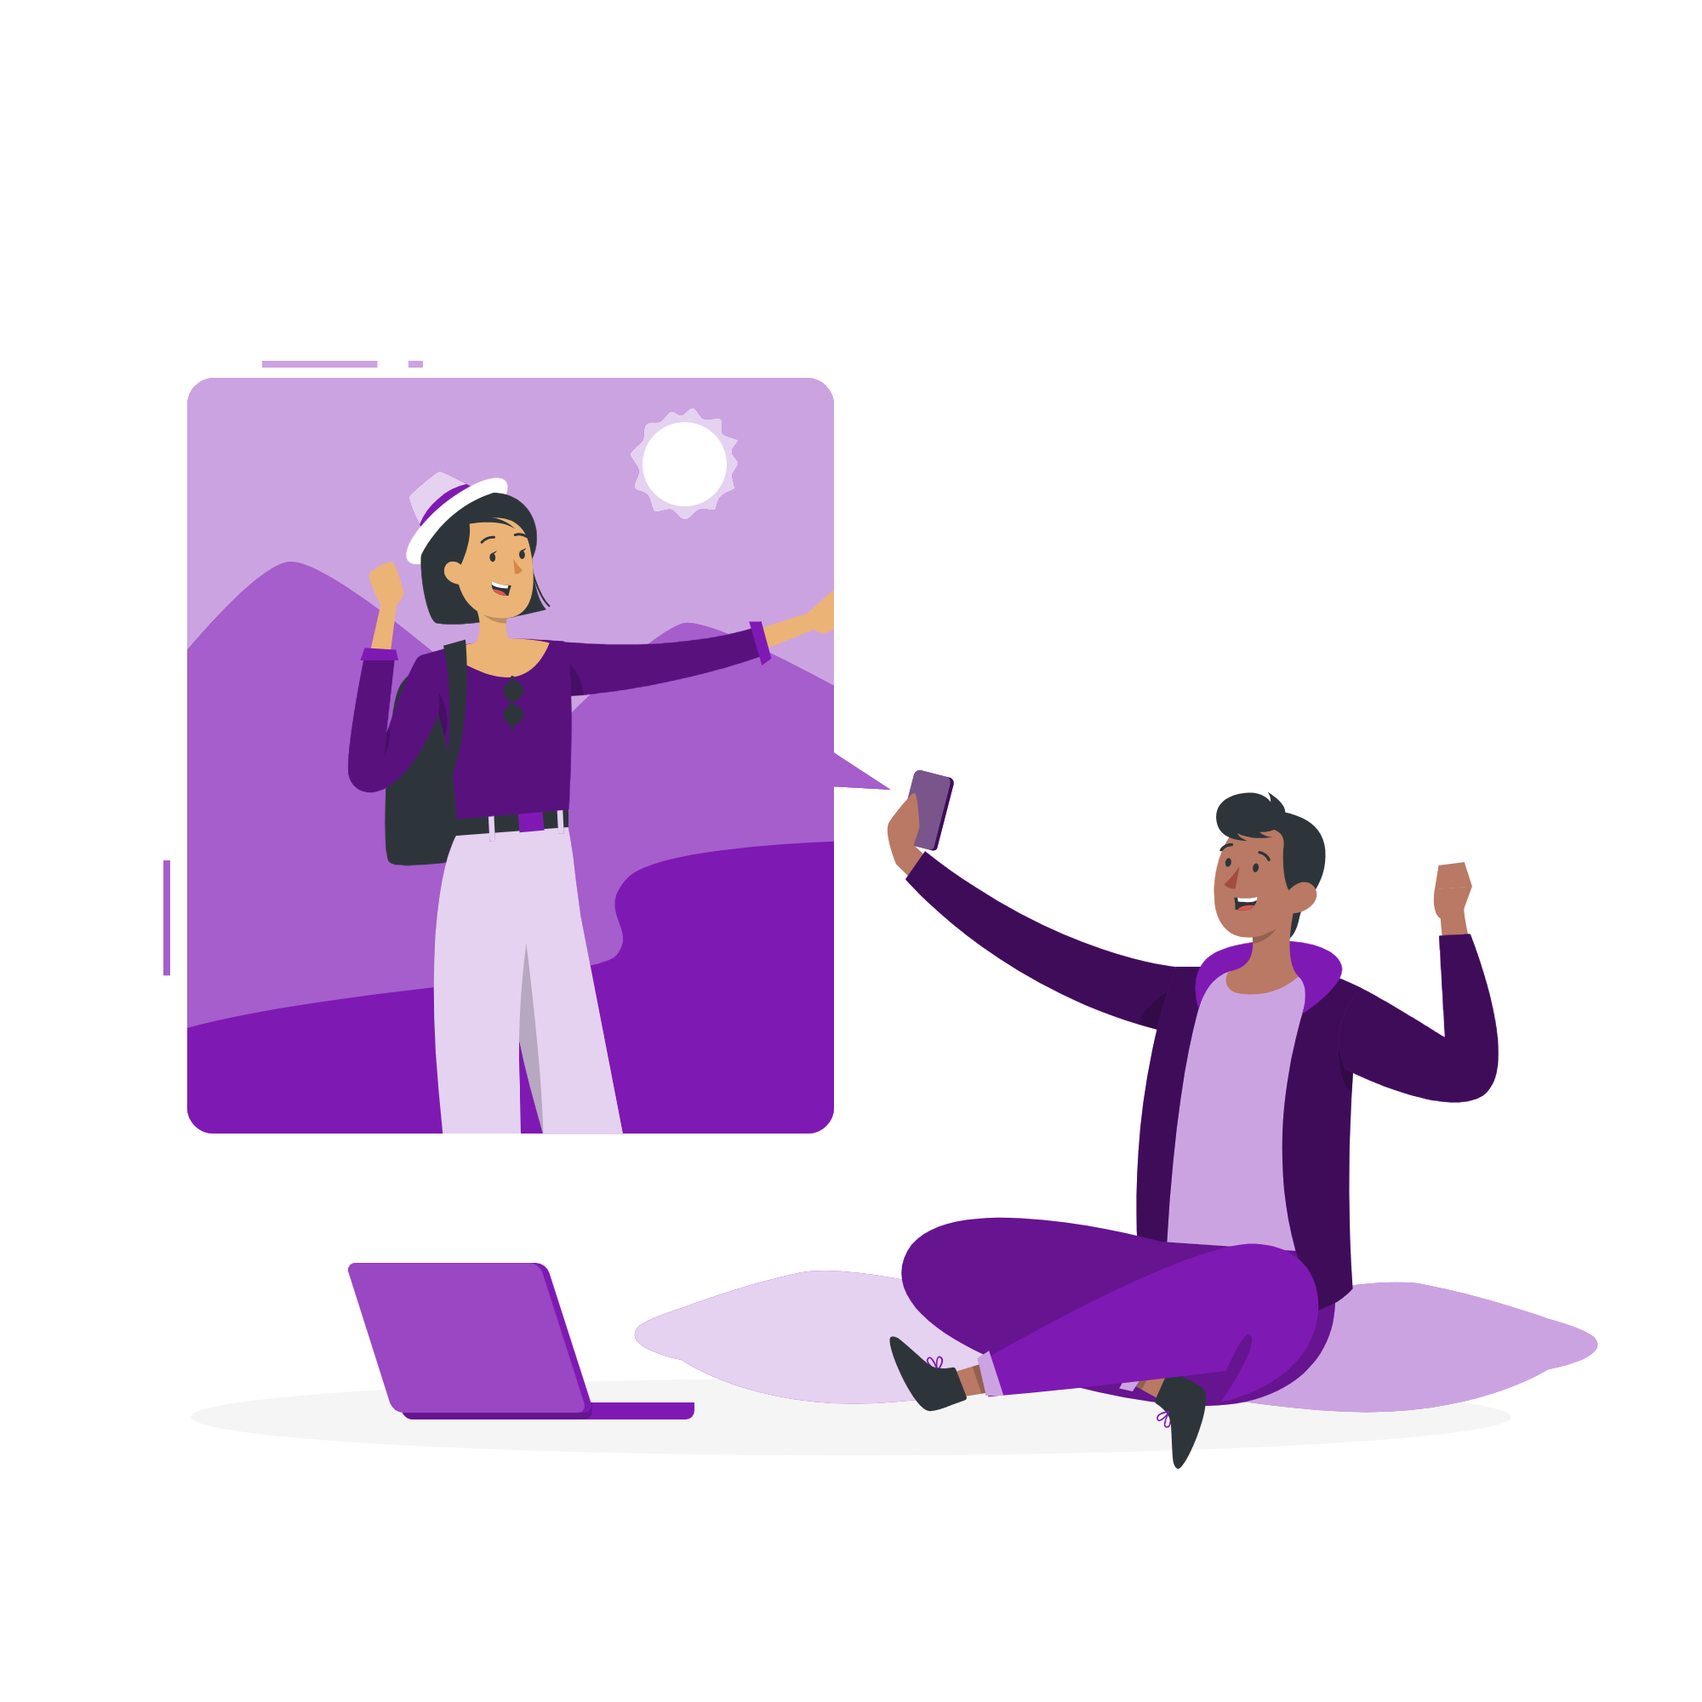
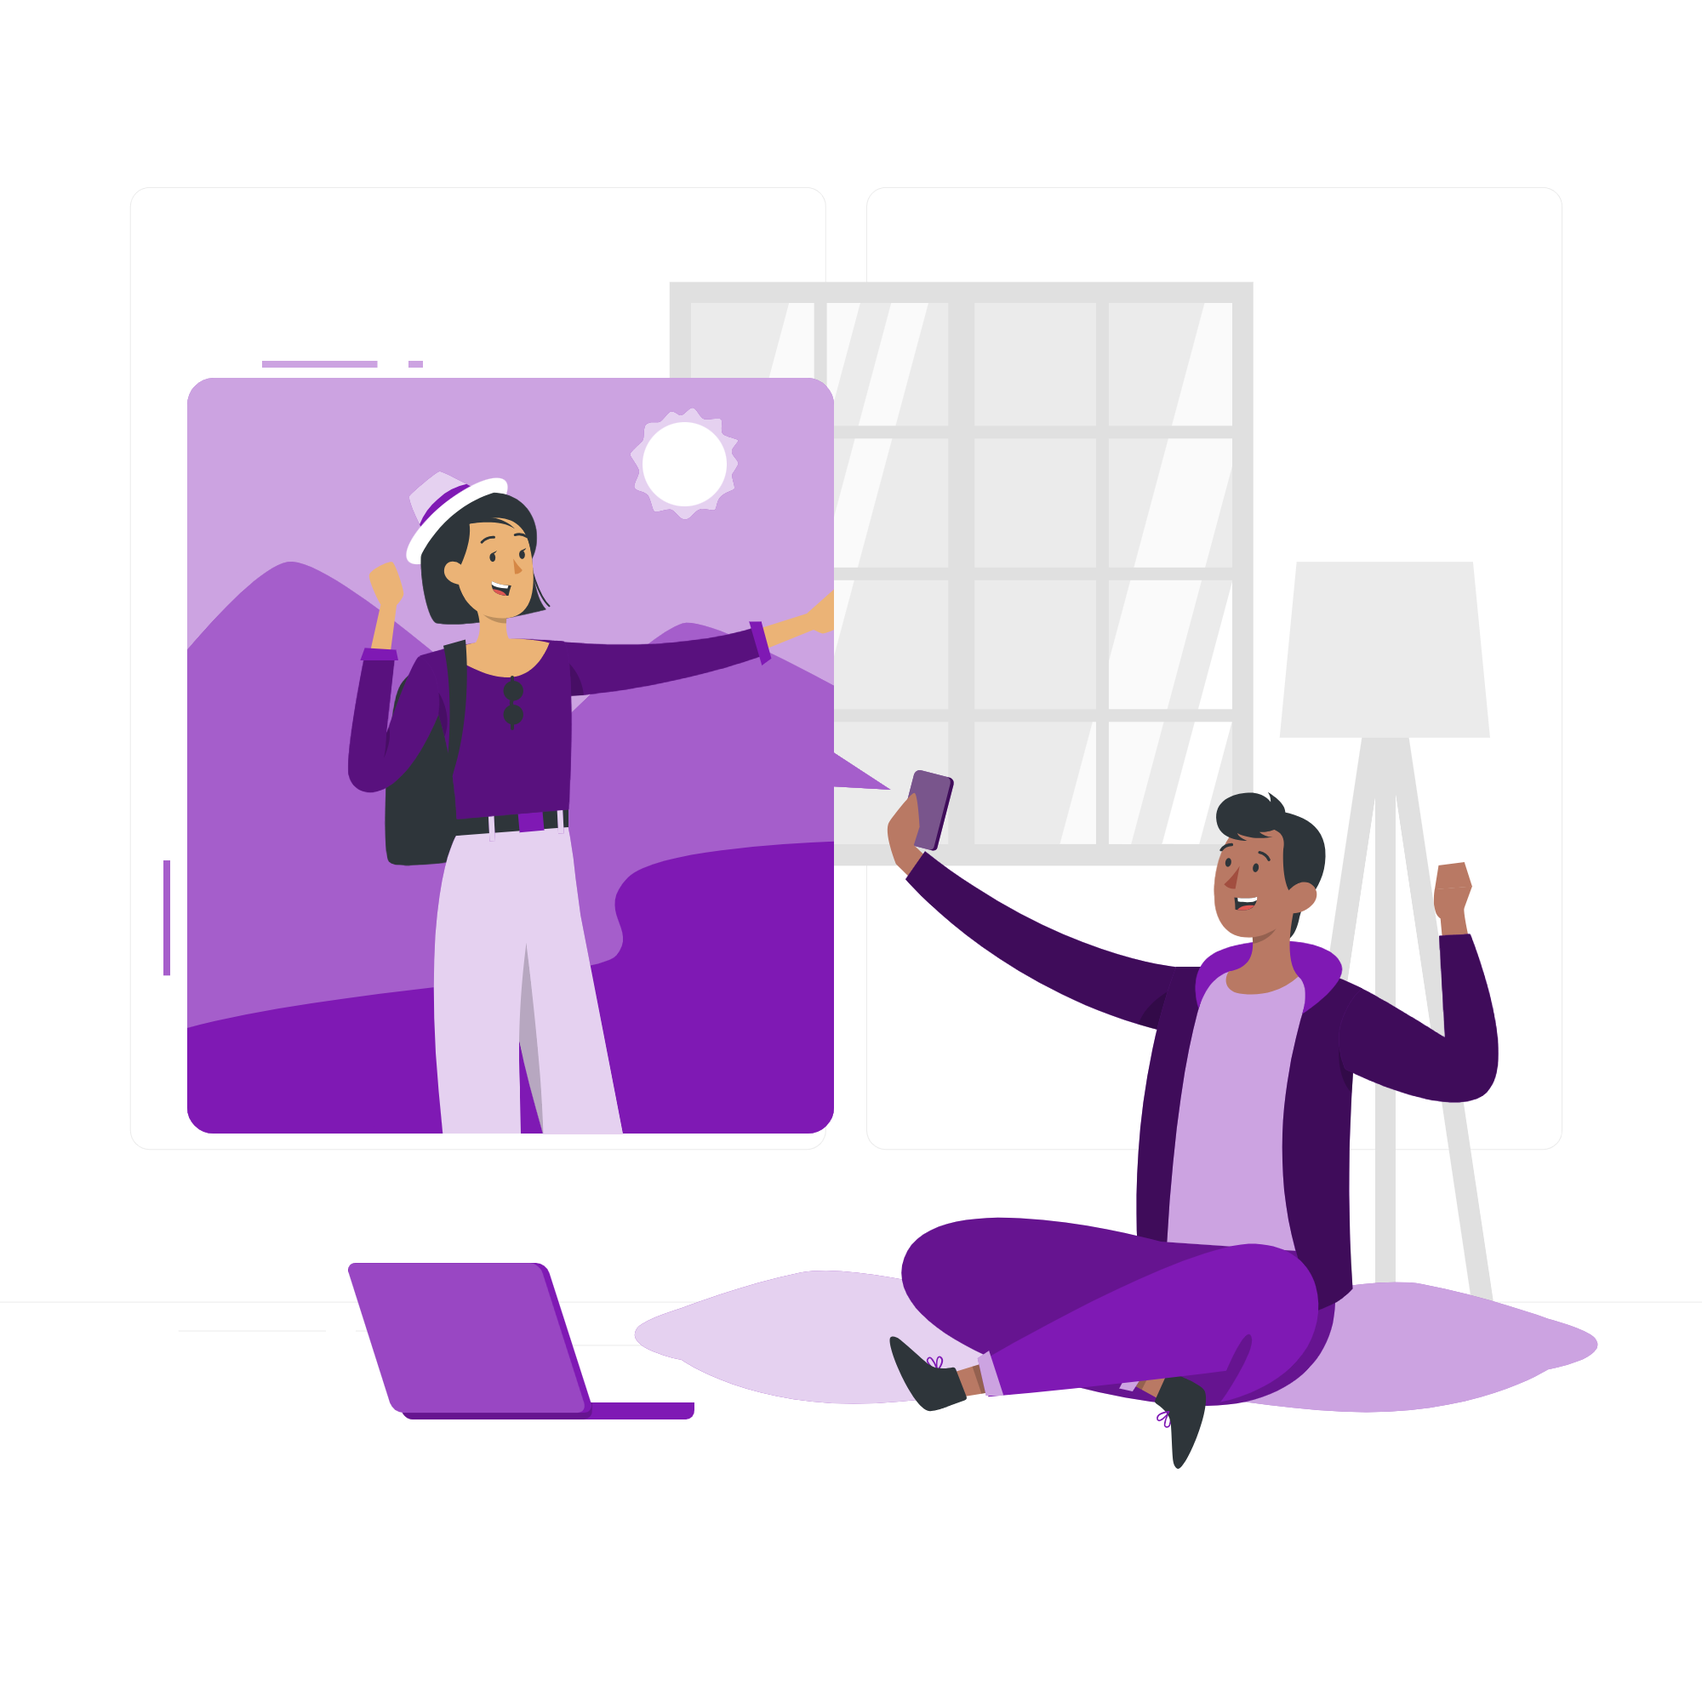
✨add(component): Homepage for a non logged user

Changed region(s): [[0.372, 0.155, 0.744, 0.527], [0.775, 0.434, 0.868, 0.62], [0.806, 0.62, 0.899, 0.775]]

diff --git a/NextJS Proyect/src/components/Banner.jsx b/NextJS Proyect/src/components/Banner.jsx
@@ -1,12 +1,15 @@
 "use client";
-import { useState } from "react";
+import { useEffect, useState } from "react";
 import Image from "next/image";
 import BannerIMG from "../../public/Video call-rafiki.png";
-import { VideoCameraAddOutlined, InfoCircleOutlined } from "@ant-design/icons";
+import LoginBannerIMG from "../../public/Voice chat-bro.png";
+import { VideoCameraAddOutlined, LoginOutlined, InfoCircleOutlined } from "@ant-design/icons";
 import { Button, Input, ConfigProvider, Tooltip } from "antd";
+import RoomsList from "./RoomsList";
 
-const Banner = () => {
+const Banner = ({ isLogged, rooms }) => {
     const [button, setButton] = useState(false);
+    const [createRoom, setCreateRoom] = useState(false);
 
     const onChange = (e) => {
         if (e.target.value === "") {
@@ -16,76 +19,139 @@ const Banner = () => {
         }
     };
 
+
+    useEffect(() => {
+        if (rooms.length >= 3) {
+            setCreateRoom(true);
+        }
+    }, [rooms])
+
     return (
-        <div className="flex flex-row items-center">
-            <div className="w-1/2 flex flex-col justify-center items-start pl-8">
-                <div className="flex flex-col gap-4">
-                    <div className="text-white">
-                        <span className="text-purple text-4xl font-bold">Shared</span>
-                        <span className="text-4xl font-bold">
-                            View : Conecta y Comparte de Forma Segura
-                        </span>
-                    </div>
-                    <p className="text-lg text-gray-500">
-                        ¡Conéctate y comparte tu pantalla de forma segura con tus amigos!
-                        ¡Experimenta una comunicación visual sin límites!
-                    </p>
-                </div>
-                <div className="flex flex-row mt-14 gap-4">
-                    <ConfigProvider
-                        theme={{
-                            components: {
-                                Button: {
-                                    colorBgTextHover: "#fff",
-                                    colorPrimaryHover: "#fff",
-                                    colorTextDisabled: "rgba(255, 255, 255, 0.5)",
-                                },
-                            },
-                        }}
-                    >
-                        <Button
-                            size="large"
-                            className="bg-purple hover:bg-violet-900 text-white border-none gap-2"
-                            icon={<VideoCameraAddOutlined />}
-                        >
-                            Nueva reunion
-                        </Button>
-                    </ConfigProvider>
-                    <div className="flex flex-row items-center gap-4">
-                        <Input
-                            placeholder="Ingresa el codigo de la reunion"
-                            size="large"
-                            onChange={onChange}
-                            allowClear
-                            suffix={
-                                <Tooltip title="Example: xac-1a3-vds">
-                                    <InfoCircleOutlined
-                                        style={{
-                                            color: "rgba(0,0,0,.45)",
-                                        }}
-                                    />
-                                </Tooltip>
-                            }
-                        />
-                        <ConfigProvider
-                            theme={{
-                                components: {
-                                    Button: {
-                                        colorText: "#fff",
-                                        colorTextDisabled: "rgba(255, 255, 255, 0.5)",
+        <div className="flex flex-row items-center justify-center mt-5 px-12">
+            <div className="w-1/2 flex flex-col items-start gap-8">
+                {
+                    isLogged ?
+                        <div className="flex flex-col gap-2">
+                            <div className="text-white">
+                                <span className="text-purple text-4xl font-bold">Shared</span>
+                                <span className="text-4xl font-bold">View</span>
+                            </div>
+                            <p className="text-base text-gray-400">
+                                Crea una sala y comparte el codigo con tus amigos
+                            </p>
+                        </div>
+                        :
+                        <div className="flex flex-col gap-8">
+                            <div className="text-white">
+                                <span className="text-purple text-4xl font-bold">Shared</span>
+                                <span className="text-4xl font-bold">View : Conecta y Comparte de Forma Segura </span>
+                            </div>
+                            <p className="text-base text-gray-400">
+                                ¡Conéctate y comparte tu pantalla de forma segura con tus amigos! ¡Experimenta una comunicación visual sin límites!
+                            </p>
+                        </div>
+                }
+                {
+                    isLogged ?
+                        <div className="flex flex-row gap-4">
+                            <ConfigProvider
+                                theme={{
+                                    components: {
+                                        Button: {
+                                            colorBgTextHover: "#fff",
+                                            colorPrimaryHover: "#fff",
+                                            colorTextDisabled: "rgba(255, 255, 255, 0.5)",
+                                            colorBgContainerDisabled: "rgba(127, 25, 180, 0.5))",
+                                        },
                                     },
-                                },
-                            }}
-                        >
-                            <Button type="text" size="large" disabled={!button}>
-                                Unirse
-                            </Button>
-                        </ConfigProvider>
-                    </div>
-                </div>
+                                }}
+                            >
+                                <Button
+                                    size="large"
+                                    disabled={createRoom}
+                                    className="bg-purple hover:bg-violet-900 text-white border-none gap-2"
+                                    icon={<VideoCameraAddOutlined />}
+                                >
+                                    Nueva reunion
+                                </Button>
+                            </ConfigProvider>
+                            <div className="flex flex-row items-center gap-4">
+                                <Input
+                                    placeholder="Ingresa el codigo de la reunion"
+                                    size="large"
+                                    onChange={onChange}
+                                    allowClear
+                                    suffix={
+                                        <Tooltip title="Example: xac-1a3-vds">
+                                            <InfoCircleOutlined
+                                                style={{
+                                                    color: "rgba(0,0,0,.45)",
+                                                }}
+                                            />
+                                        </Tooltip>
+                                    }
+                                />
+                                <ConfigProvider
+                                    theme={{
+                                        components: {
+                                            Button: {
+                                                colorText: "#fff",
+                                                colorTextDisabled: "rgba(255, 255, 255, 0.5)",
+                                            },
+                                        },
+                                    }}
+                                >
+                                    <Button type="text" size="large" disabled={!button}>
+                                        Unirse
+                                    </Button>
+                                </ConfigProvider>
+                            </div>
+                        </div>
+                        :
+                        <>
+                            <ConfigProvider
+                                theme={{
+                                    components: {
+                                        Button: {
+                                            colorBgTextHover: "#fff",
+                                            colorPrimaryHover: "#fff",
+                                            colorTextDisabled: "rgba(255, 255, 255, 0.5)",
+                                            colorBgContainerDisabled: "rgba(127, 25, 180, 0.5))",
+                                        },
+                                    },
+                                }}
+                            >
+                                <Button
+                                    size="large"
+                                    className="bg-purple hover:bg-violet-900 text-white border-none w-1/3"
+                                    icon={<LoginOutlined />}
+                                >
+                                    Iniciar sesion
+                                </Button>
+                            </ConfigProvider>
+                            <div className="flex flex-row items-center gap-2">
+                                <span className="text-white text-sm">
+                                    ¿No tienes una cuenta?
+                                </span>
+                                <span className="text-purple font-bold">Registrate</span>
+                            </div>
+                        </>
+                }
+
+                {
+                    isLogged ?
+                        <RoomsList rooms={rooms} />
+                        :
+                        null
+                }
             </div>
-            <div className="w-1/2 flex flex-col justify-center items-end pr-8">
-                <Image src={BannerIMG} width={500} height={500} />
+            <div className="w-1/2 flex flex-col items-end">
+                {
+                    isLogged ?
+                        <Image src={LoginBannerIMG} width={500} height={500} alt="img" />
+                        :
+                        <Image src={BannerIMG} width={500} height={500} alt="img" />
+                }
             </div>
         </div>
     );

diff --git a/NextJS Proyect/src/components/Navbar.jsx b/NextJS Proyect/src/components/Navbar.jsx
@@ -1,53 +1,42 @@
 'use client';
-import { Button, ConfigProvider } from 'antd';
-import { useEffect, useState } from 'react';
-import { UserOutlined } from '@ant-design/icons';
+import { useEffect, useState} from 'react';
 import Image from 'next/image';
 import LogoSharedView from '../../public/ICONO.png';
 
-const Navbar = () => {
+const Navbar = ({isLogged}) => {
 
-    const [isLogged, setIsLogged] = useState(true);
+    const [date, setDate] = useState('');
 
     const getDate = () => {
         const date = new Date();
-        const day = date.getDate();
-        const month = date.getMonth();
-        const year = date.getFullYear();
-        const hour = date.getHours();
-        const minutes = date.getMinutes();
-        return `${hour}:${minutes} - ${day}/${month}/${year}`;
+        const day = date.toDateString();
+        const hour = date.getHours().toString().padStart(2, '0') + ':' + date.getMinutes().toString().padStart(2, '0') + ':' + date.getSeconds().toString().padStart(2, '0');
+        return setDate(`${hour} - ${day}`);
     }
 
     useEffect(() => {
-        getDate();
+        const interval = setInterval(() => {
+            getDate();
+        }, 1000);
+        return () => clearInterval(interval);
     }, [])
 
     return (
         <div className="flex flex-row items-center py-4">
             <div className='w-1/2 flex justify-start items-center gap-4'>
-                <Image src={LogoSharedView} width={60} height={60} />
+                <Image src={LogoSharedView} width={60} height={60} alt='logo'/>
                 <div className='flex flex-row'>
                     <span className='text-purple font-bold text-lg'>Shared</span>
                     <span className='font-bold text-lg'>View</span>
                 </div>
             </div>
             <div className='w-1/2 flex flex-row items-center justify-end gap-4'>
-                <span className='text-gray-400 text-sm'>{getDate()}</span>
+                <span className='text-gray-400 text-sm'>{date}</span>
                 {
                     isLogged ?
-                        <span className='text-white text-base'>Victor Cortez</span>
-                        :
-                        <ConfigProvider
-                            theme={{
-                                token: {
-                                    colorBgTextHover: "#fff",
-                                    colorPrimary: "#fff",
-                                }
-                            }}
-                        >
-                            <Button size='middle' type='default' icon={<UserOutlined />} className='bg-purple border-none text-white hover:bg-violet-900 hover:text-white'>Login</Button>
-                        </ConfigProvider>
+                    <span className='text-white font-bold'>Victor Cortez</span>
+                    :
+                    null
                 }
             </div>
         </div>

diff --git a/NextJS Proyect/src/components/RoomsList.jsx b/NextJS Proyect/src/components/RoomsList.jsx
@@ -1,0 +1,43 @@
+import { DeleteOutlined, EllipsisOutlined, QuestionCircleOutlined } from '@ant-design/icons'
+import { Tooltip } from 'antd'
+
+const RoomsList = ({rooms}) => {
+
+    return (
+        <div className='flex flex-col items-start justify-center mt-3'>
+            <div className='flex flex-row gap-2'>
+                <h1 className='text-base font-bold text-white'>Tus salas</h1>
+                <Tooltip placement="top" title="Only you can have three rooms maximum">
+                    <QuestionCircleOutlined />
+                </Tooltip>
+            </div>
+            {
+                rooms.map((room) => (
+                    <div key={room.id} className='flex flex-row items-center justify-between gap-4 w-full mt-4'>
+                        <span className='text-white text-sm'>
+                            <span className='text-white opacity-60'>Codigo: </span>
+                            {room.code}
+                        </span>
+                        <span className='text-white text-sm'>
+                            <span className='text-white opacity-60'>Expira: </span>
+                            {room.expDate}
+                        </span>
+                        {
+                            room.isPrivate ?
+                                <span className='text-white text-sm font-bold'>Privada</span>
+                                :
+                                <span className='text-white text-sm font-bold'>Publica</span>
+                        }
+                        <button className='bg-purple hover:bg-violet-900 text-white text-sm font-bold py-1 px-2 rounded'>Ingresar</button>
+                        <Tooltip placement="top" title="Delete a room">
+                            <DeleteOutlined />
+                        </Tooltip>
+                        <EllipsisOutlined />
+                    </div>
+                ))
+            }
+        </div>
+    )
+}
+
+export default RoomsList

diff --git a/NextJS Proyect/src/app/page.js b/NextJS Proyect/src/app/page.js
@@ -1,12 +1,39 @@
+"use client";
 import Banner from '@/components/Banner';
 import Navbar from '@/components/Navbar';
 import React from 'react';
+import { useState } from 'react';
+
+const roomsList = [
+    {
+        id: 1,
+        expDate: '12/12/2021',
+        code: 'xac-1a3-vds',
+        isPrivate: true,
+    },
+    {
+        id: 2,
+        expDate: '12/12/2021',
+        code: 'xac-1a3-vds',
+        isPrivate: true,
+    },
+    {
+        id: 3,
+        expDate: '12/12/2021',
+        code: 'xac-1a3-vds',
+        isPrivate: true,
+    },
+
+]
 
 const Page = () => {
+    const [isLogged, setIsLogged] = useState(true);
+    const [rooms, setRooms] = useState(roomsList)
+
     return (
         <div className='flex min-h-screen flex-col px-8'>
-            <Navbar />
-            <Banner />
+            <Navbar isLogged={isLogged} />
+            <Banner isLogged={isLogged} rooms={rooms}/>
         </div>
     );
 };
